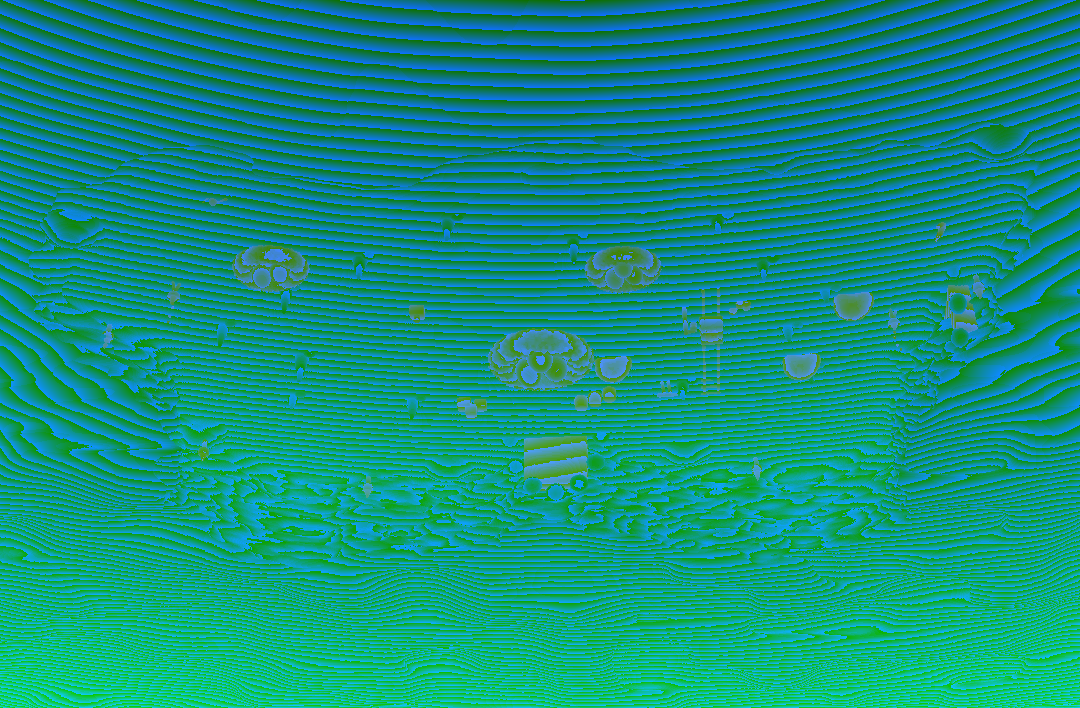
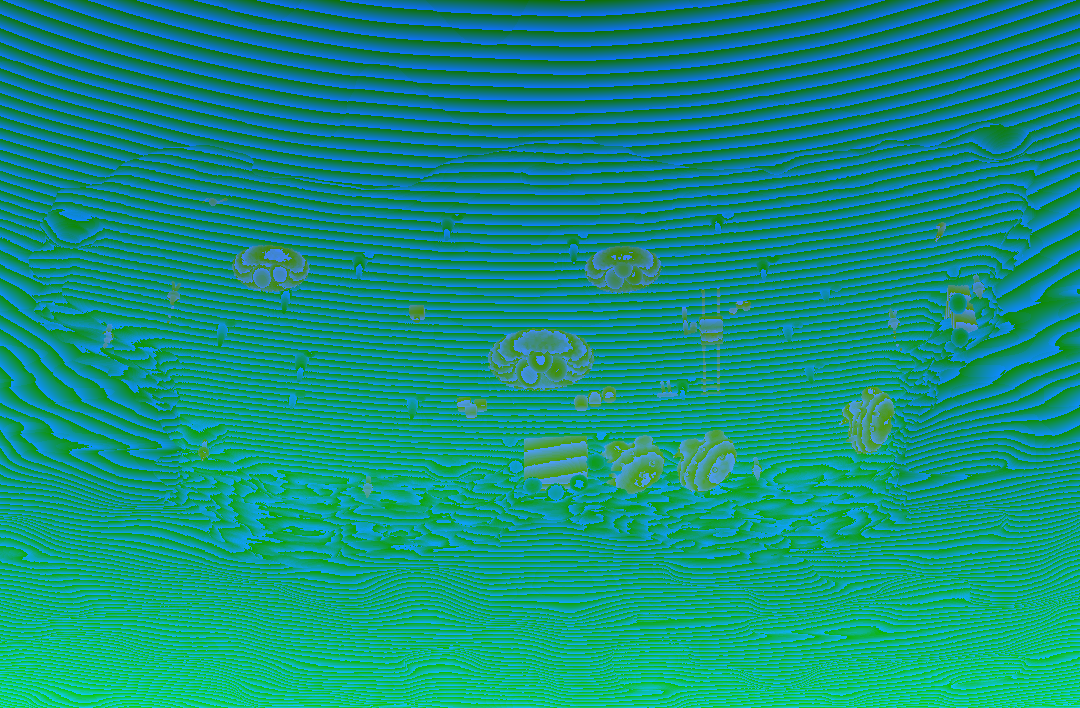
鉱石を壁の鉱脈にして、壁を掘るようにする
Claude-Session: https://claude.ai/code/session_01MpJPWy321815AwYbXUCf2V

diff --git a/index.html b/index.html
@@ -7217,7 +7217,7 @@ document.addEventListener("click", ev => {
 { const _oc2 = openChest19; openChest19 = function (S, c) { if (c.kind !== "lvall") return _oc2(S, c); if (!S.mons.length) return _oc2(S, c);
   return { text: "👑 覚醒", sub: "Lv+3 する子を1体えらんでね", sp: null, feed: 1, awaken: true, evos: [] }; }; }
 
-const VER20 = "No.214（11/18 21:43）";
+const VER20 = "No.215（11/18 22:14）";
 // ================= proto20：ダンジョンを見る画面と、配置する画面を分ける =================
 // ・ダンジョン画面：洞窟を大きく。部屋をタップ → 部屋ボード（全画面）
 // ・🧭育成：育てる→稼ぐ／守るの流れで見る。卒業Lv・毎朝おまかせ
@@ -10677,6 +10677,13 @@ const THRONE25 = mode => ` {vec3 P1=p;p=${mode === "D" ? "vec3(-p.x,p.y,-p.z)" :
 ${mode === "D" ? THRONE_D25 : THRONE_B25}
  p=P1;}
 ${BANNER25}`;
+// 壁の鉱脈：壁から少しはみ出した鉱石の岩と、青く光る結晶
+const VEIN25 = (x, z) => { const X = (+x).toFixed(2), Z = (+z).toFixed(2), a = Math.atan2(-x, 0.3 - z), dx = Math.sin(a).toFixed(3), dz = Math.cos(a).toFixed(3);
+  return ` {vec3 q=p-vec3(${X},0.0,${Z});vec3 nd=vec3(${dx},0.0,${dz});vec3 sd=vec3(nd.z,0.0,-nd.x);
+  vec3 l=vec3(dot(q,sd),q.y,dot(q,nd));float v=sEll(l-vec3(0.0,1.35,-0.1),vec3(1.7,1.45,0.55));v=smin(v,sEll(l-vec3(-0.7,0.3,0.3),vec3(0.6,0.4,0.45)),0.2);v=smin(v,sEll(l-vec3(0.8,0.22,0.25),vec3(0.45,0.28,0.38)),0.15);
+  v+=(vnoise(q*5.0)-0.5)*0.12;if(v<r.x)r=vec2(v,24.0);
+  float cr=1e3;for(int i=0;i<6;i++){float fi=float(i);vec3 b=vec3(0.0,0.5+mod(fi*0.73,1.0)*1.9,0.0)+sd*(fi-2.5)*0.5+nd*0.35;vec3 tip=b+nd*(0.35+0.15*mod(fi,2.0))+vec3(0.0,0.25,0.0)+sd*(fi-2.0)*0.1;cr=min(cr,sTap(q,b,tip,0.11,0.01));}
+  if(cr<r.x)r=vec2(cr,21.0);}`; };
 const HAI25 = (() => {
   const L = r => ROOMS24[r].props.split("\n");
   const T = L("train"), M = L("mine"), S = L("sleep");
@@ -10686,7 +10693,7 @@ const HAI25 = (() => {
     { id: "rocks", name: "岩の山", g: "train", txt: T[4], foot: [[6.8, -3.9, 1.0]] },
     { id: "ring", name: "訓練の円（石の輪）", g: "train", txt: T[5], foot: [] },
     { id: "pit1", name: "たき火（訓練所）", g: "train", txt: "FIREPIT(0.0,-2.45)", light: "LIGHT(0.0,0.75,-2.45,1.0,0.55,0.22,4.2)", foot: [[0, -2.45, 0.8]] },
-    { id: "ore", name: "採掘の岩（3つ）", g: "mine", txt: M.slice(1, 4).join("\n"), foot: [[-4.7, -3.2, 1.1], [4.2, -3.9, 1.1], [6.3, 0.6, 1.1]], ore: [[-4.7, -3.2], [4.2, -3.9], [6.3, 0.6]] },
+    { id: "ore", name: "壁の鉱脈（3か所）", g: "none", txt: VEIN25(3.8, -10.6) + VEIN25(7.6, -10.6) + VEIN25(15.6, -7.6), foot: [[3.8, -9.8, 1.4], [7.6, -9.8, 1.4], [14.9, -7.0, 1.4]], vein: [[3.8, -10.6], [7.6, -10.6], [15.6, -7.6]] },
     { id: "rail", name: "線路とトロッコ", g: "mine", txt: M.slice(4, 9).join("\n"), foot: [[0, -0.4, 0.9], [0, -3.5, 0.6], [0, 1.5, 0.6]] },
     { id: "pebble", name: "鉱石のかけら", g: "mine", txt: M[9], foot: [] },
     { id: "pick", name: "つるはし立て", g: "mine", txt: M[10], foot: [[-2.25, -4.9, 0.5]] },
@@ -10734,6 +10741,7 @@ const HAI25 = (() => {
     const F = foots(on), cast = [], taken = [];
     const free = (x, z, r) => inCave(x, z) && F.every(([fx, fz, fr]) => Math.hypot(x - fx, z - fz) > fr + r * 0.8) && taken.every(([tx, tz, tr]) => Math.hypot(x - tx, z - tz) > (tr + r) * 0.9);
     const ores = []; MODS.forEach(m => { if (on[m.id] && m.ore) { const [dx, dz] = off(m); m.ore.forEach(([x, z]) => ores.push([x + dx, z + dz])); } });
+    const veins = []; MODS.forEach(m => { if (on[m.id] && m.vein) m.vein.forEach(v => veins.push(v)); }); let vi = 0;
     const beds = []; MODS.forEach(m => { if (on[m.id] && m.beds) { const [dx, dz] = off(m); m.beds.forEach(([x, z]) => beds.push([x + dx, z + dz])); } });
     let oi = 0, bi = 0, k = 0;
     // 大きい子から置く
@@ -10741,7 +10749,10 @@ const HAI25 = (() => {
     all.sort((a, b) => footR(b) - footR(a));
     all.forEach(e => { const c = { sp: e.sp, evo: e.evo, mode: "idle", t: (k++) * 0.37, r: 0, lie: false }; const r = footR(c); const bip = BIP(e.sp);
       let pos = null;
-      if (e.act === "mine" && bip && ores.length && oi < ores.length * 2) { const o = ores[oi % ores.length], side = oi >= ores.length ? -1 : 1; oi++;
+      if (e.act === "mine" && bip && veins.length && vi < veins.length * 2) { const v = veins[vi % veins.length], side = vi >= veins.length ? -1 : 1; vi++;
+        const a = Math.atan2(-v[0], 0.3 - v[1]), nx = Math.sin(a), nz = Math.cos(a), d = 1.25 + r * 0.6, px = v[0] + nx * d + nz * side * 0.75, pz = v[1] + nz * d - nx * side * 0.75;
+        c.mode = "mine"; c.r = Math.atan2(v[0] - px, v[1] - pz); c.look = v; pos = [px, pz]; }
+      else if (e.act === "mine" && bip && ores.length && oi < ores.length * 2) { const o = ores[oi % ores.length], side = oi >= ores.length ? -1 : 1; oi++;
         const rr = Math.atan2(-(o[0]), -(o[1] - 0.0)) * 0 + (side > 0 ? 0.6 : -2.5); const ps = placeMine24([o[0], 0, o[1]], rr); c.mode = "mine"; c.r = rr; pos = [ps[0], ps[2]]; }
       else if (e.act === "sleep" && bip && beds.length && bi < beds.length) { const b = beds[bi++]; c.mode = "sleep"; c.lie = true; c.r = 1.2; pos = [b[0] + 0.2, b[1]]; }
       if (!pos) { for (let tries = 0; tries < 400 && !pos; tries++) { const x = (R() * 2 - 1) * 17.5, z = -8.8 + R() * 18; if (free(x, z, r)) pos = [x, z]; } }
@@ -10855,7 +10866,7 @@ function roomKind25(i){ const R = S.path[i] || {}; if (i === lordIdx(S)) return 
   return F.includes("train") ? "train" : F.includes("mine") ? "mine" : F.includes("bed") ? "bed" : R.fac === "mine" ? "mine" : R.fac === "bed" ? "bed" : R.fac === "train" ? "train" : F.includes("nest") || R.fac === "nest" ? "nest" : F.includes("watch") || R.fac === "watch" ? "watch" : F.includes("gate") || R.fac === "gate" ? "entry" : "plain"; }
 // 配った洞窟の絵（bg25/部屋の種類_c.png・_d.png）があれば、それを読み込む
 function setRoom25(i){ const C = B3.C; C.setRoom(B3.roomKey); const k = roomKind25(i); if (!BGSHIP25[k]) return; C.putBgImages(`bg25/${k}_c.png?v=${BGSHIP25[k]}`, `bg25/${k}_d.png?v=${BGSHIP25[k]}`, C.st.bgKey); }
-const BGSHIP25 = { train: "fd282ce3", mine: "f6c4e409", bed: "3f1c9fef", lord: "41ce104d", plain: "43787f10", nest: "92cc858e", watch: "a7d8de73", entry: "a8a68ce5", train_mine: "52dcb95c", train_bed: "8fba5ad9", train_nest: "d84b8dc8", train_watch: "42cc71e7", mine_bed: "680cf510", mine_nest: "11aafbdb", mine_watch: "22b99272", bed_nest: "3d83bc11", bed_watch: "994ec677", nest_watch: "4e4b4c24", lordday: "41ce104d" };
+const BGSHIP25 = { train: "fd282ce3", mine: "ae79e073", bed: "3f1c9fef", lord: "41ce104d", plain: "43787f10", nest: "92cc858e", watch: "a7d8de73", entry: "a8a68ce5", train_mine: "25c8e0b9", train_bed: "8fba5ad9", train_nest: "d84b8dc8", train_watch: "42cc71e7", mine_bed: "d85c074c", mine_nest: "03dd38f1", mine_watch: "5ba523e8", bed_nest: "3d83bc11", bed_watch: "994ec677", nest_watch: "4e4b4c24", lordday: "41ce104d" };
 function roomKey25(i){ const on = {}; ROOMSET25[roomKind25(i)].forEach(k => on[k] = true); return HAI25.room(on); }
 // ---- 3Dのキャラの種類 ----
 const heroSp25 = h => (typeof heroId === "function" ? String(heroId(h)).replace(/\d+$/, "") : h.job) || "warrior";
@@ -11077,7 +11088,7 @@ function droom25(i){ const kind = roomKind25(i), on = {}; ROOMSET25[kind].forEac
   const cast = HAI25.place(on, list, 11 + i * 17);
   const order = all.map((m, k) => ({ m, a: list[k] })).sort((a, b) => HAI25.footR({ sp: b.m.sp, evo: b.m.evos || 0 }) - HAI25.footR({ sp: a.m.sp, evo: a.m.evos || 0 }));
   const fit = (x, z, r) => { for (let n = 0; n < 30; n++) { const p = dproj25(x, 0, z), pw = r * p[2]; if (p[0] - pw > 0.1 && p[0] + pw < 0.9 && p[1] > 0.3 && p[1] < 0.84) break; x *= 0.92; z = z * 0.9 + 0.3; } return [x, z]; };
-  const acts = []; cast.forEach((c, k) => { const o = order[k]; if (!o) return; const [fx0, fz0] = c.mode === "mine" || c.mode === "sleep" ? [c.o[0], c.o[2]] : fit(c.o[0], c.o[2], HAI25.footR({ sp: o.m.sp, evo: o.m.evos || 0 })); /* 掘る子・寝る子は、岩や寝床のそばから動かさない */ c.o[0] = fx0; c.o[2] = fz0; acts.push({ m: o.m, sp: o.m.sp, evo: o.m.evos || 0, x: c.o[0], z: c.o[2], hx: c.o[0], hz: c.o[2], tx: c.o[0], tz: c.o[2], mode: c.mode, face: c.mode === "mine" ? (([[3.3, -3.2], [12.2, -3.9], [14.3, 0.6]].reduce((b, q) => Math.hypot(q[0] - c.o[0], q[1] - c.o[2]) < Math.hypot(b[0] - c.o[0], b[1] - c.o[2]) ? q : b))[0] > c.o[0] ? 1 : -1) : Math.random() < 0.5 ? 1 : -1, next: 0, ph: Math.random() * 3 }); });
+  const acts = []; cast.forEach((c, k) => { const o = order[k]; if (!o) return; const [fx0, fz0] = c.mode === "mine" || c.mode === "sleep" ? [c.o[0], c.o[2]] : fit(c.o[0], c.o[2], HAI25.footR({ sp: o.m.sp, evo: o.m.evos || 0 })); /* 掘る子・寝る子は、岩や寝床のそばから動かさない */ c.o[0] = fx0; c.o[2] = fz0; acts.push({ m: o.m, sp: o.m.sp, evo: o.m.evos || 0, x: c.o[0], z: c.o[2], hx: c.o[0], hz: c.o[2], tx: c.o[0], tz: c.o[2], mode: c.mode, face: c.look ? (c.look[0] > c.o[0] ? 1 : -1) : Math.random() < 0.5 ? 1 : -1, next: 0, ph: Math.random() * 3 }); });
   if (S.path[i].kind === "lord") acts.push({ lord: true, back: true, sp: "lord", evo: typeof lordTier === "function" ? lordTier() : 0, x: 0, y: 0.95, z: 6.6, hx: 0, hz: 6.6, tx: 0, tz: 6.6, mode: "idle", face: 1, next: 1e12, ph: 0 });
   return D3.act[i] = { sig, kind, acts }; }
 // ---- 1部屋を描く ----
